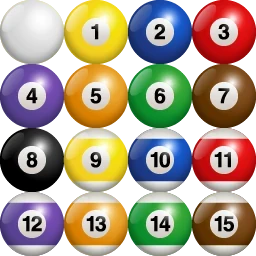
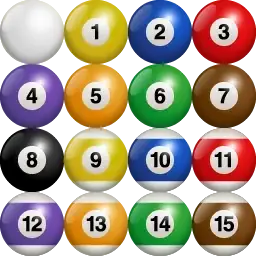
ui/ux

Changed region(s): [[0.25, 0.0, 0.5, 0.25], [0.25, 0.4688, 0.5, 0.7188]]

diff --git a/src/js/modules/playStateUpdate.js b/src/js/modules/playStateUpdate.js
@@ -1295,99 +1295,17 @@ playState.update = function () {
 	function showFoulMessage() {
 		let message = gameInfo.foulMessage;
 		if (message != "potted the cue ball") {
-			// gameInfo.gameRunning = false;
-
 			Project.APP.game.dispatch({
 		        type: "show-foul-message",
 		        message: `Player ${gameInfo.turn == "p2" ? 2 : 1} ${message}`,
-		        callback: () => {
-		        	applyRulings2();
-		        }
-		    })
-
-			// setTimeout(hideFoulWindow, Phaser.Timer.SECOND);
-
-			// function hideFoulWindow() {
-			// 	applyRulings2();
-			// }
-
-			/*
-			switch (gameInfo.foulDisplay1) {
-				case "8 BALL":
-					gameInfo.foulWindow.display1.visible = true;
-					gameInfo.foulWindow.display1.frame = 0;
-					break;
-
-				case "MISS":
-					gameInfo.foulWindow.display1.visible = true;
-					gameInfo.foulWindow.display1.frame = 1;
-					//console.log("showing frame 2");
-					break;
-
-				case "SOLIDS":
-					gameInfo.foulWindow.display1.visible = true;
-					gameInfo.foulWindow.display1.frame = 2;
-					break;
-
-				case "STRIPES":
-					gameInfo.foulWindow.display1.visible = true;
-					gameInfo.foulWindow.display1.frame = 3;
-					break;
-			}
-
-			switch (gameInfo.foulDisplay2) {
-				case "8 BALL":
-					gameInfo.foulWindow.display2.visible = true;
-					gameInfo.foulWindow.display2.frame = 0;
-					break;
-
-				case "SOLIDS":
-					gameInfo.foulWindow.display2.visible = true;
-					gameInfo.foulWindow.display2.frame = 2;
-					break;
-
-				case "ANY":
-					gameInfo.foulWindow.display2.visible = true;
-					gameInfo.foulWindow.display2.frame = 2;
-					break;
-
-				case "STRIPES":
-					gameInfo.foulWindow.display2.visible = true;
-					gameInfo.foulWindow.display2.frame = 3;
-					break;
-			}
-
-			switch (gameInfo.foulDisplay3) {
-				case "CUSHION":
-					gameInfo.foulWindow.display1.visible = false; //fouls of this type can also trigger display1 and 2 to show as fouls override each other
-					gameInfo.foulWindow.display2.visible = false;
-					gameInfo.foulWindow.display3.visible = true;
-					gameInfo.foulWindow.display3.frame = 0;
-					break;
-
-				case "POTTED8BALL":
-					gameInfo.foulWindow.display1.visible = false;
-					gameInfo.foulWindow.display2.visible = false;
-					gameInfo.foulWindow.display3.visible = true;
-					gameInfo.foulWindow.display3.frame = 1;
-					break;
-
-				case "POTTEDCUEBALL":
-					gameInfo.foulWindow.display1.visible = false;
-					gameInfo.foulWindow.display2.visible = false;
-					gameInfo.foulWindow.display3.visible = true;
-					gameInfo.foulWindow.display3.frame = 2;
-					break;
-			}
-
-			switch (gameInfo.foulDisplay4) {
-				case "CUSHIONONBREAK":
-					gameInfo.foulWindow.display4.visible = true;
-					break;
-			}
-			*/
+		        callback: () => applyRulings2(),
+		    });
 		} else {
-			console.log(gameInfo.foulMessage);
+			Project.APP.game.dispatch({
+		        type: "show-foul-message",
+		        message: `Player ${message}`,
+		        callback: () => applyRulings2(),
+		    });
 			applyRulings2();
 		}
 	}

diff --git a/src/css/game.less b/src/css/game.less
@@ -271,7 +271,7 @@ content {
 							background: linear-gradient(0deg, #15cb32, #008717);
 						}
 
-						i.icon-menu {
+						i.icon-cogs {
 							top: 1px;
 						}
 					}
@@ -301,7 +301,7 @@ content {
 									inset 0 -1px 1px #006102;
 					}
 
-					i.icon-menu {
+					i.icon-cogs {
 						z-index: 2;
 						width: 42px;
 						height: 42px;

diff --git a/src/css/loser.less b/src/css/loser.less
@@ -48,7 +48,7 @@ content {
 				left: 0;
 				right: 0;
 				color: #f99;
-				text-shadow: 0 1px 1px #fff,
+				text-shadow: 0 1px 0 #fffa,
 							0 2px 0 hsl(1,65%,75%),
 							0 3px 0 hsl(1,65%,70%),
 							0 4px 0 hsl(1,65%,66%),

diff --git a/src/css/main.less b/src/css/main.less
@@ -57,7 +57,7 @@ content {
 		background-position: 50% 50%;
 		// background-color: rgba(#000,.1);
 
-		&.icon-menu { background-image: url(~/icons/icon-menu.png); }
+		&.icon-cogs { background-image: url(~/icons/icon-cogs.png); background-size: 31px auto; }
 	}
 
 	h2 {

diff --git a/src/partials/areas/game.htm b/src/partials/areas/game.htm
@@ -3,7 +3,7 @@
 		<div class="hud">
 			<div class="head">
 				<div class="menu" data-click="game-toggle-pause">
-					<i class="icon-menu"></i>
+					<i class="icon-cogs"></i>
 				</div>
 			</div>
 